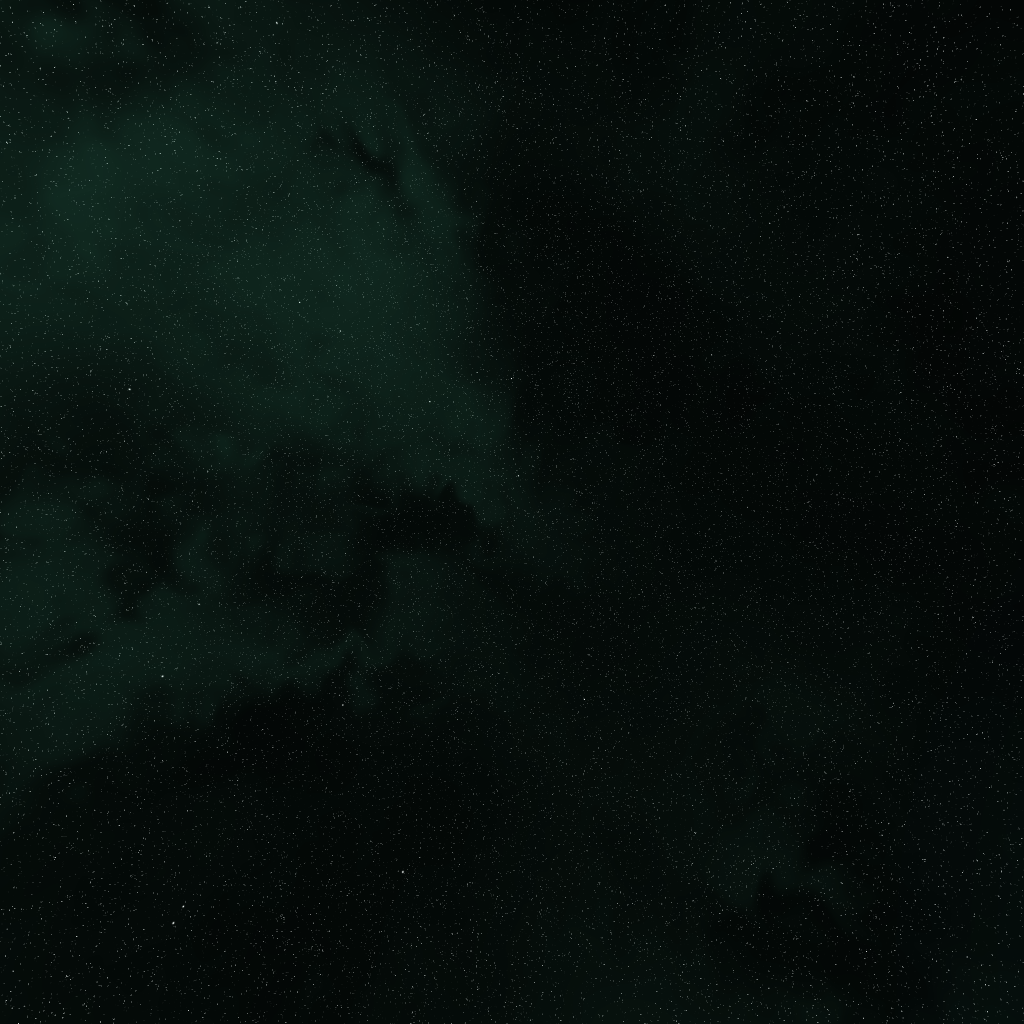
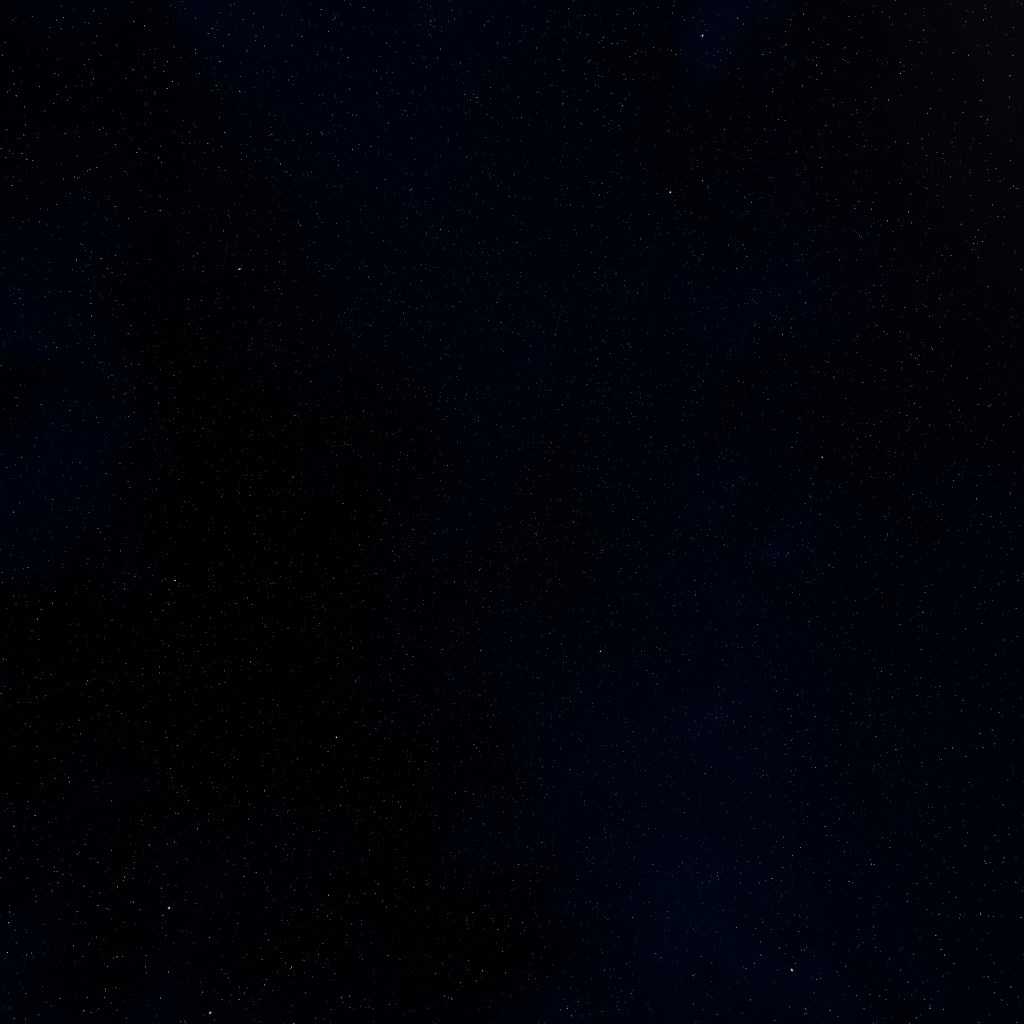
skybox rotates

Changed region(s): [[0.0, 0.0625, 0.5, 0.5], [0.0, 0.5, 0.2812, 0.7188], [0.0312, 0.0, 0.0938, 0.0625]]

diff --git a/terraforming_mars/view/app.cpp b/terraforming_mars/view/app.cpp
@@ -2,6 +2,7 @@
 
 #include <imgui.h>
 
+#include "constants.h"
 #include "view.h"
 #include "gl_utils/gl_utils.h"
 #include "gl_utils/SDL_GLDebugMessageCallback.h"
@@ -57,6 +58,8 @@ void App::Clean() {
 }
 
 void App::Update( const UpdateInfo& update_info ) {
+    _elapsed = update_info.elapsed;
+
     _view->Update( update_info );
 }
 
@@ -69,6 +72,11 @@ void App::Render() {
 }
 
 void App::RenderGUI() {
+    //if ( ImGui::Begin( "Info" ) ) {
+    //    ImGui::LabelText( std::to_string( _elapsed ).c_str(), "Elapsed time" );
+    //}
+    //ImGui::End();
+
     _view->RenderGUI();
 }
 
@@ -124,8 +132,12 @@ void App::RenderSkybox() {
     glActiveTexture( GL_TEXTURE0 );
     glBindTexture( GL_TEXTURE_CUBE_MAP, _skybox_texture_id );
 
+    glm::mat4 world = glm::translate( _camera.GetEye() );
+    world = world * glm::rotate( _elapsed * SKYBOX_ROTATE_SPEED, glm::vec3( 0.0f, 1.0f, 0.0f ) );
+
+    glUniformMatrix4fv( ul( "world" ), 1, GL_FALSE, glm::value_ptr( world ) );
     glUniformMatrix4fv( ul( "view_proj" ), 1, GL_FALSE, glm::value_ptr( _camera.GetViewProj() ) );
-    glUniformMatrix4fv( ul( "world" ), 1, GL_FALSE, glm::value_ptr( glm::translate( _camera.GetEye() ) ) );
+
     glUniform1i( ul( "skybox_texture" ), 0 );
 
     GLint prev_depth_func;

diff --git a/terraforming_mars/model/constants.h b/terraforming_mars/model/constants.h
@@ -1,5 +1,7 @@
 #pragma once
 
+namespace model
+{
 inline constexpr int STARTING_TEMPERATURE = -30;
 inline constexpr int STARTING_OCEAN_COUNT = 0;
 inline constexpr int STARTING_OXYGEN_LEVEL = 0;
@@ -30,3 +32,4 @@ inline constexpr int SOLO_GAME_MAX_GENERATIONS = 14;
 
 
 inline constexpr int BEGINNER_CORPORATION_CREDITS = 42;
+}

diff --git a/terraforming_mars/view/view.cpp b/terraforming_mars/view/view.cpp
@@ -2,6 +2,8 @@
 
 #include <glm/glm.hpp>
 
+#include "constants.h"
+
 namespace view
 {
 View::View() {}
@@ -29,6 +31,8 @@ void View::Clean() {
 }
 
 void View::Update( const UpdateInfo& update_info ) {
+    _elapsed = update_info.elapsed;
+
     _camera_manipulator->Update( update_info.delta );
 }
 

diff --git a/terraforming_mars/view/view.h b/terraforming_mars/view/view.h
@@ -41,6 +41,8 @@ public:
     void OtherEvent( const SDL_Event& event );
 
 protected:
+    float _elapsed = 0.0f;
+
     Camera* _camera = nullptr;
     SphericalCameraManipulator* _camera_manipulator = nullptr;
 

diff --git a/terraforming_mars/view/app.h b/terraforming_mars/view/app.h
@@ -41,6 +41,8 @@ public:
     void OtherEvent( const SDL_Event& event );
 
 protected:
+    float _elapsed = 0.0f;
+
     View* _view = nullptr;
     Camera _camera;
 

diff --git a/terraforming_mars/view/constants.h b/terraforming_mars/view/constants.h
@@ -1,0 +1,6 @@
+#pragma once
+
+namespace view
+{
+inline constexpr float SKYBOX_ROTATE_SPEED = 0.01f;
+}
